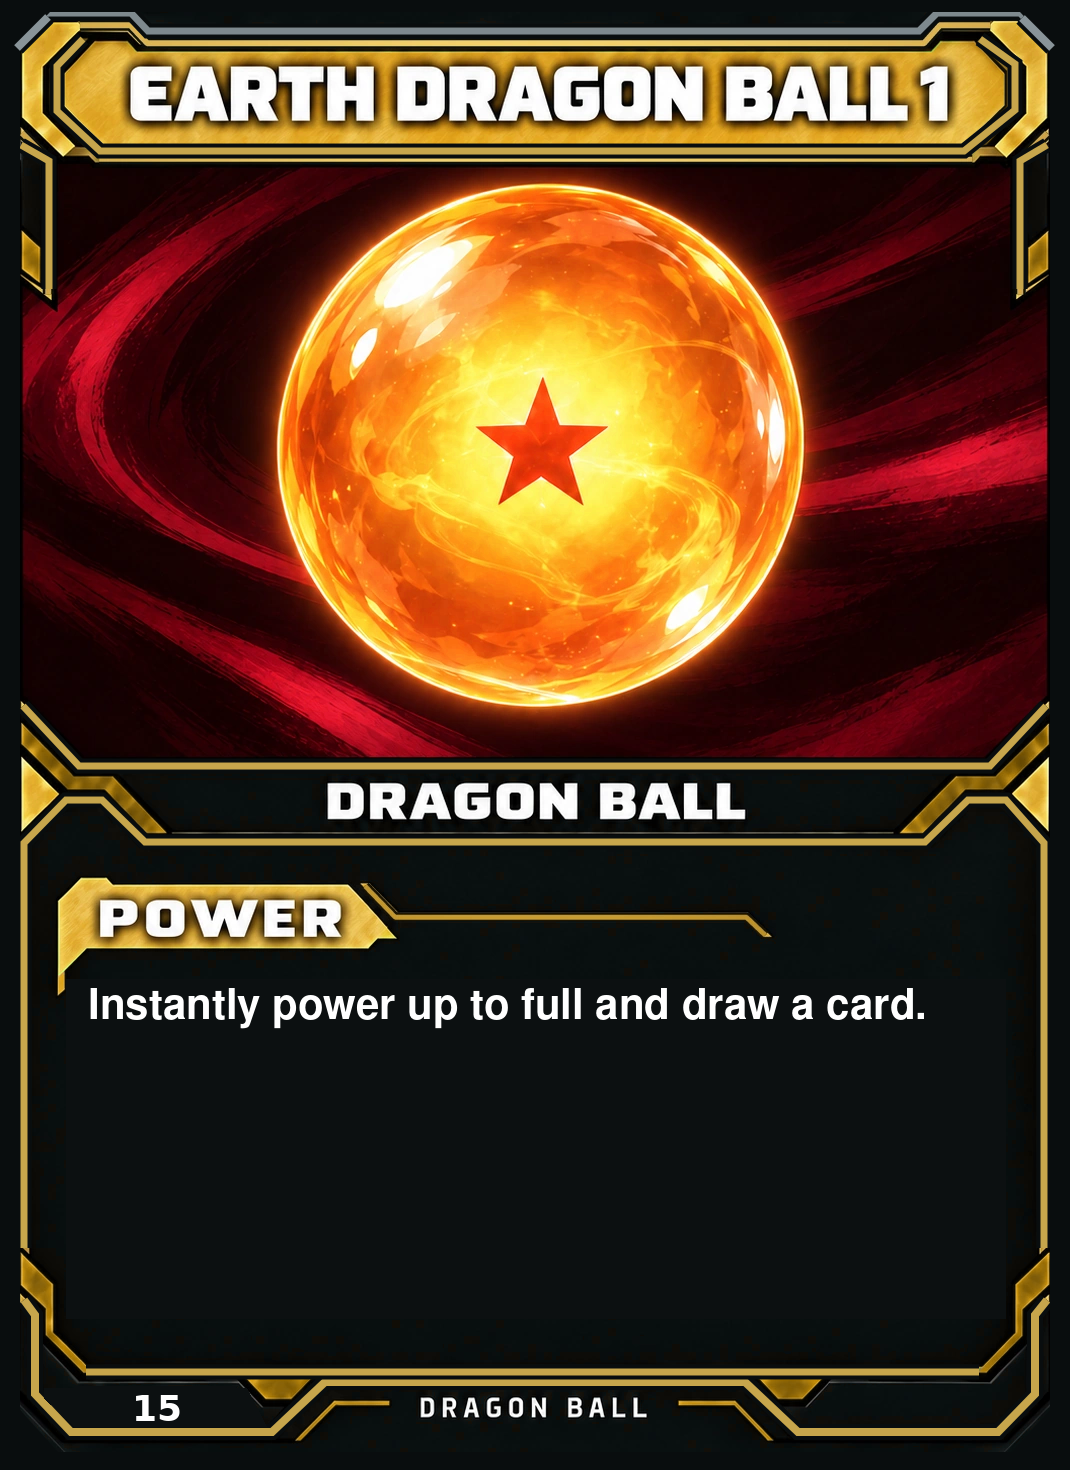
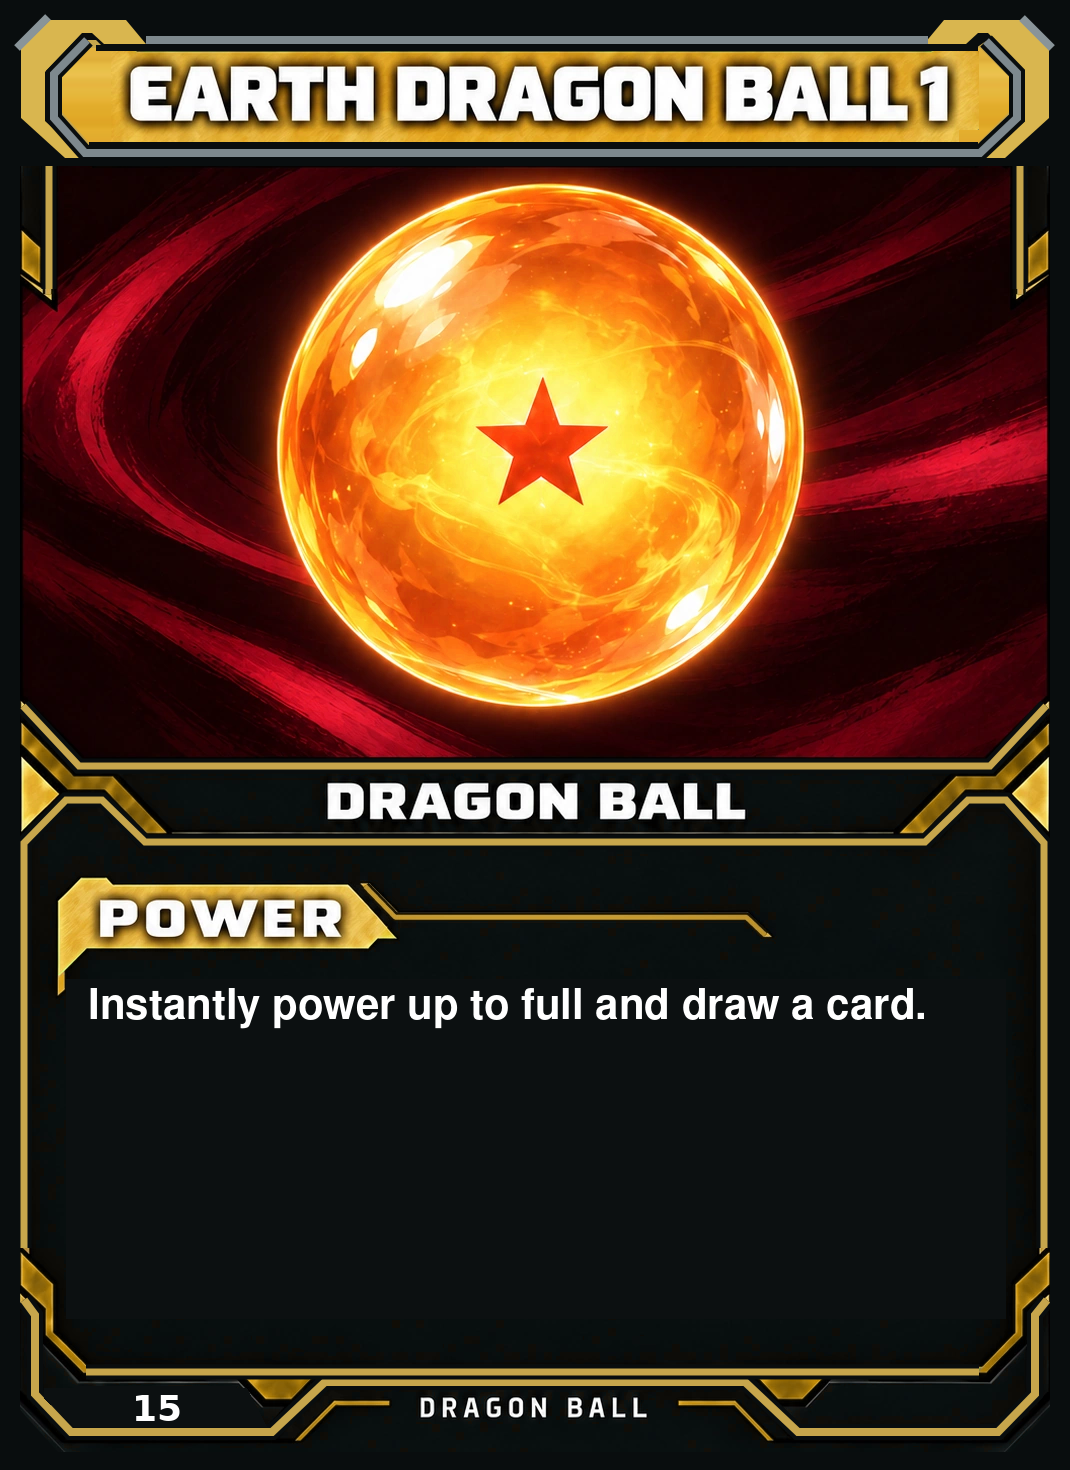
Match Earth Dragon Ball 1 and 2 headers to current card frame geometry

Changed region(s): [[0.0, 0.0, 0.9869, 0.1224]]

diff --git a/public/cards/catalog.js b/public/cards/catalog.js
@@ -161,7 +161,7 @@ export const catalog = [
     "style": "Freestyle",
     "set": "Saiyan Saga",
     "status": "Ready",
-    "image": "/assets/cards/saiyan-015-earth-dragon-ball-1.webp?v=3de439e0ca",
+    "image": "/assets/cards/saiyan-015-earth-dragon-ball-1.webp?v=7e2159fe07",
     "source": "https://retrodbzccg.com/card-images/saiyan-saga-commons/"
   },
   {
@@ -172,7 +172,7 @@ export const catalog = [
     "style": "Freestyle",
     "set": "Saiyan Saga",
     "status": "Ready",
-    "image": "/assets/cards/saiyan-016-earth-dragon-ball-2.webp?v=aff7863ed6",
+    "image": "/assets/cards/saiyan-016-earth-dragon-ball-2.webp?v=f7f81f9af2",
     "source": "https://retrodbzccg.com/card-images/saiyan-saga-commons/"
   },
   {

diff --git a/tools/card-frames/update-dragon-ball-headers.py b/tools/card-frames/update-dragon-ball-headers.py
@@ -1,0 +1,45 @@
+"""Use the current combat-card title geometry with gold Dragon Ball panels."""
+from pathlib import Path
+import io, sys
+from PIL import Image
+import cairosvg
+
+ROOT=Path(__file__).resolve().parents[2]
+SOURCE=Path(sys.argv[1]) if len(sys.argv)>1 else ROOT
+
+def header(original):
+    defs=[]
+    for side,x in [('left',110),('right',110)]:
+        stops=[]
+        for y in range(50,146,5):
+            color=original.getpixel((x,max(55,min(y,138))))
+            stops.append(f'<stop offset="{(y-50)/95}" stop-color="rgb{color}"/>')
+        defs.append(f'<linearGradient id="{side}" x1="0" y1="50" x2="0" y2="145" gradientUnits="userSpaceOnUse">{"".join(stops)}</linearGradient>')
+    svg=f'''<svg xmlns="http://www.w3.org/2000/svg" width="1070" height="166">
+      <defs>{''.join(defs)}</defs>
+      <rect width="1070" height="166" fill="#090d0e"/>
+      <path d="M21 48L50 20H126L146 44H104L92 33H82L45 72V121L86 158H65L21 118Z" fill="#d9b64f"/>
+      <path d="M1049 48L1020 20H944L924 44H966L978 33H988L1025 72V121L984 158H1005L1049 118Z" fill="#d9b64f"/>
+      <path d="M87 40L54 74V118L85 153H980L1017 118V73L986 41L976 48H104L96 40Z" fill="#c7a64c"/>
+      <path d="M88 48H111V145H91L62 112V77Z" fill="url(#left)"/>
+      <path d="M980 48H959V145H976L1009 112V77Z" fill="url(#right)"/>
+      <path d="M146 40H928" stroke="#7e898e" stroke-width="8"/>
+      <path d="M17 48L48 17 M1022 18L1052 48" fill="none" stroke="#899499" stroke-width="8"/>
+      <path d="M87 40L54 74V118L85 153H980L1017 118V73L986 41" fill="none" stroke="#090d0e" stroke-width="16" stroke-linejoin="miter"/>
+      <path d="M87 40L54 74V118L85 153H980L1017 118V73L986 41" fill="none" stroke="#7e898e" stroke-width="8" stroke-linejoin="miter"/>
+      <path d="M96 48H978 M89 145H978" stroke="#090d0e" stroke-width="6"/>
+    </svg>'''
+    out=original.copy()
+    rendered=Image.open(io.BytesIO(cairosvg.svg2png(bytestring=svg.encode()))).convert('RGB')
+    rendered.paste(original.crop((111,51,979,130)),(111,51))
+    rendered.paste(original.crop((111,130,959,142)),(111,130))
+    out.paste(rendered,(0,0))
+    return out
+
+if __name__=='__main__':
+    for n in (15,16):
+        src=next((SOURCE/'public/assets/cards').glob(f'saiyan-{n:03d}-*.webp'))
+        im=Image.open(src).convert('RGB'); updated=header(im)
+        assert im.crop((0,166,1070,1470)).tobytes()==updated.crop((0,166,1070,1470)).tobytes()
+        assert im.crop((111,55,959,138)).tobytes()==updated.crop((111,55,959,138)).tobytes()
+        updated.save(ROOT/'public/assets/cards'/src.name,'WEBP',lossless=True,method=4)
